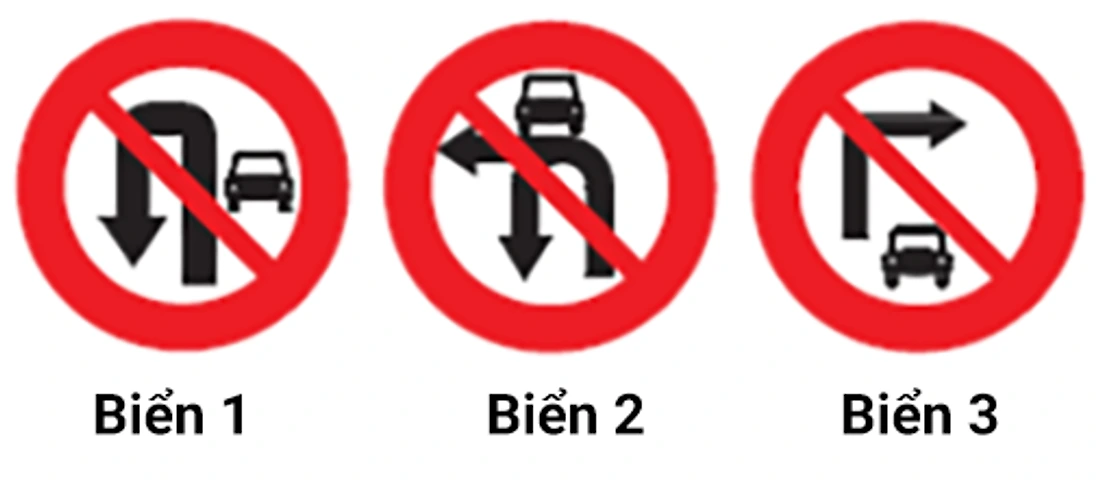
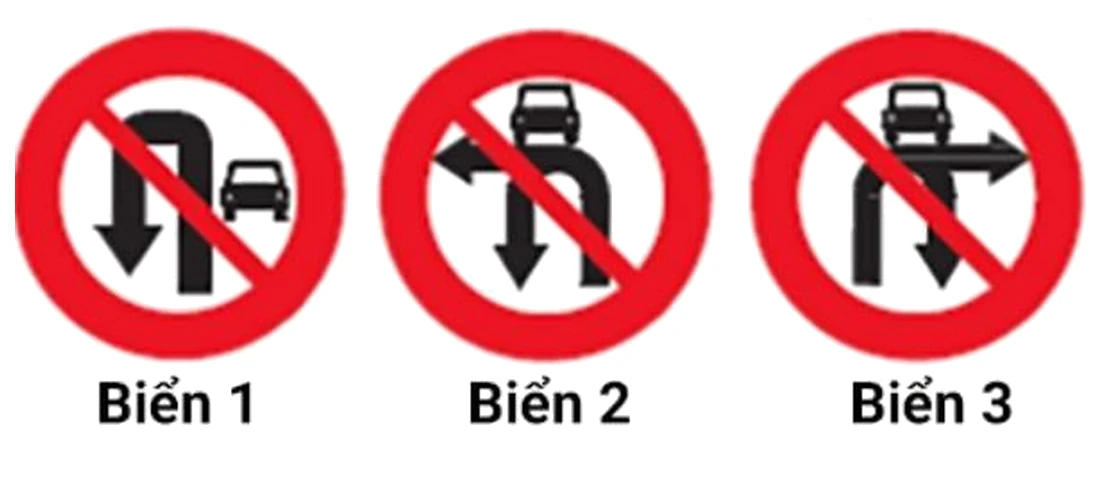
Replace the q319/q320 sign row with the official one
Our biển 3 was P.103c (no right turn) with no U-turn arrow, while the
2025 official bank (p75) shows P.124f, which bans both the right turn
and the U-turn, as both explanations already say. The new image is the
official embedded raster for Câu 319/320, extracted with pdfimages,
scaled to the old 1100x483 canvas on white and saved as WebP (q90,
33,770 B). Both files stay byte-identical. The owner approved the change.

Changed region(s): [[0.0, 0.0311, 0.9891, 0.9006], [0.2782, 0.559, 0.3091, 0.6211], [0.2473, 0.6211, 0.2782, 0.6832]]

diff --git a/docs/bank-review/2026-10-07-flagged-questions.md b/docs/bank-review/2026-10-07-flagged-questions.md
@@ -6,6 +6,8 @@ This review checks eight reviewer findings against the official 2025 question ba
 - **(b)** Our bank differs from the official bank in its key, stem, options or image. Nothing was changed. The section gives the exact change for the owner to approve.
 - **(c)** Our bank is right and the reviewer was wrong. Nothing was changed.
 
+On 7 October 2026 the owner approved the (b) proposals for q217, q215 and q319/q320, and the optional q371 wording, and they were applied. Each section ends with an "Applied on 2026-10-07" note.
+
 ## Sources
 
 The brief named Tổng cục Đường bộ / Cục Đường bộ Việt Nam and QCVN 41:2019. The bank in force since 1 June 2025 was issued by Cục Cảnh sát giao thông (Bộ Công an), and QCVN 41:2024/BGTVT replaced QCVN 41:2019 on 1 January 2025. This review uses those two documents.
@@ -32,7 +34,7 @@ The brief named Tổng cục Đường bộ / Cục Đường bộ Việt Nam an
 | Item | Question | Verdict | Change |
 |---|---|---|---|
 | 1 | q370 | (c) | None for q370. The optional q371 wording was applied after owner approval (2026-10-07). |
-| 2 | q319, q320 | (b): image | None. Proposal: replace both images. |
+| 2 | q319, q320 | (b): image | Both images replaced with the official sign row after owner approval (2026-10-07). |
 | 3 | q406 | (a) | Explanation rewritten. |
 | 4 | q505 | (a) | Explanation rewritten. |
 | 5 | q509 | (a) | Explanation rewritten. |
@@ -88,6 +90,14 @@ All official keys (S1) match our `correctKey` for q217, q319, q320, q370, q371, 
 3. Fallback if the image cannot be replaced: use wording that is true for both images. This was not applied, because it drops the U-turn detail that the official distractor depends on.
    - q319: `Biển 1 Cấm ô tô quay đầu — đúng chữ "chỉ"; biển 2 cấm ô tô rẽ trái VÀ quay đầu; biển 3 có mũi tên rẽ phải nên cấm ô tô rẽ phải. Hai biển sau cấm thêm cả rẽ nên không thỏa đề.`
    - q320: `Biển 1 chỉ cấm ô tô quay đầu; biển 2 cấm ô tô cả rẽ trái lẫn quay đầu — đúng yêu cầu; biển 3 có mũi tên rẽ phải nên không phải biển cấm rẽ trái. Nhìn mũi tên trên biển là ra ngay.`
+
+**Applied on 2026-10-07.** The owner approved changes 1 and 2. The fallback wording was not used.
+
+- **Source.** Câu 319 and Câu 320 on S1 p75 both place the same embedded raster: a 602 × 236 px JPEG that already contains just the three signs and their "Biển 1/2/3" labels. That raster was extracted unchanged with `pdfimages -j`. A page render only resamples it, so no render was used.
+- **Processing.** The raster was scaled uniformly by 1.788 with Lanczos. It was placed on a white 1100 × 483 canvas, the size of the old image, with the content in the same position as before. Near-white pixels (every channel 240 or above) were set to pure white. The result was saved as lossy WebP at quality 90.
+- **Result.** `images/q319.webp` and `images/q320.webp` are byte-identical again, 33,770 B each (SHA-256 `b57afe82…`). The old files were 33,904 B. Biển 3 now shows a car, a right-turn arrow and a U-turn arrow, which is P.124f.
+- **Known limit.** In the official raster, the left edge of biển 1's red ring is cut off by 1 to 2 px. This was left as it is.
+- **Not changed.** The explanations were not changed. `dist/` is a build output that `scripts/copy-assets.mjs` copies from `images/`, and Vercel serves `images/**` directly, so there is no other copy to update.
 
 ## 3. q406: "Biển nào sau đây là biển Đường trơn?"
 
